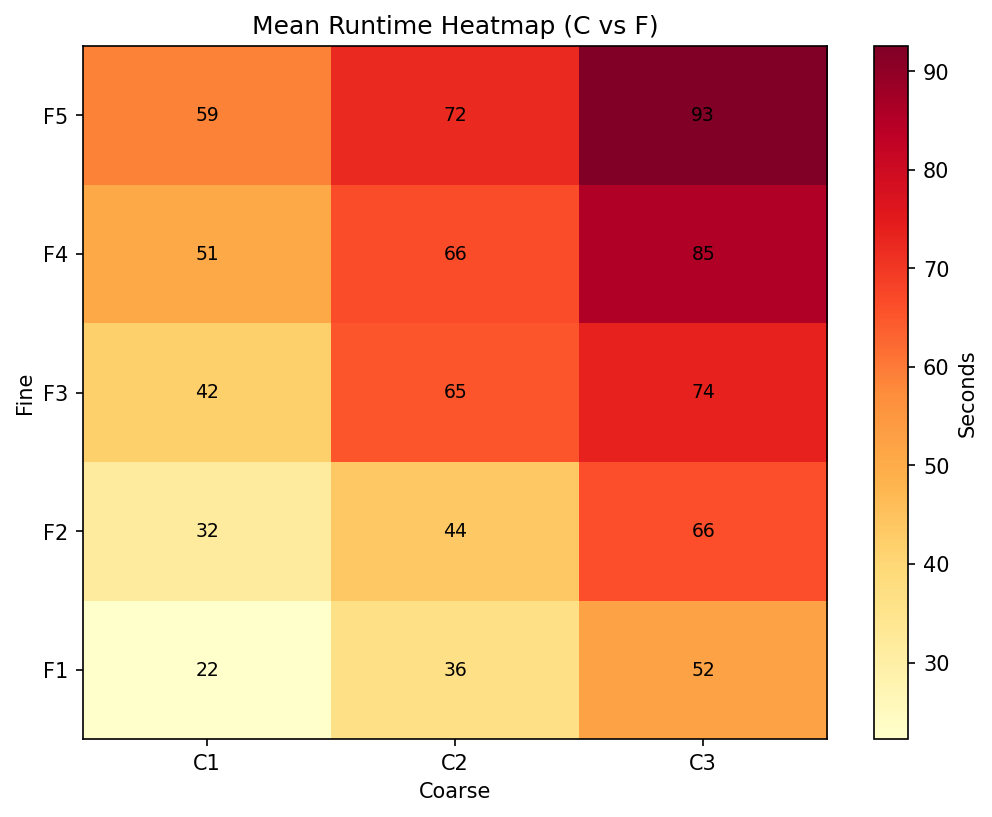
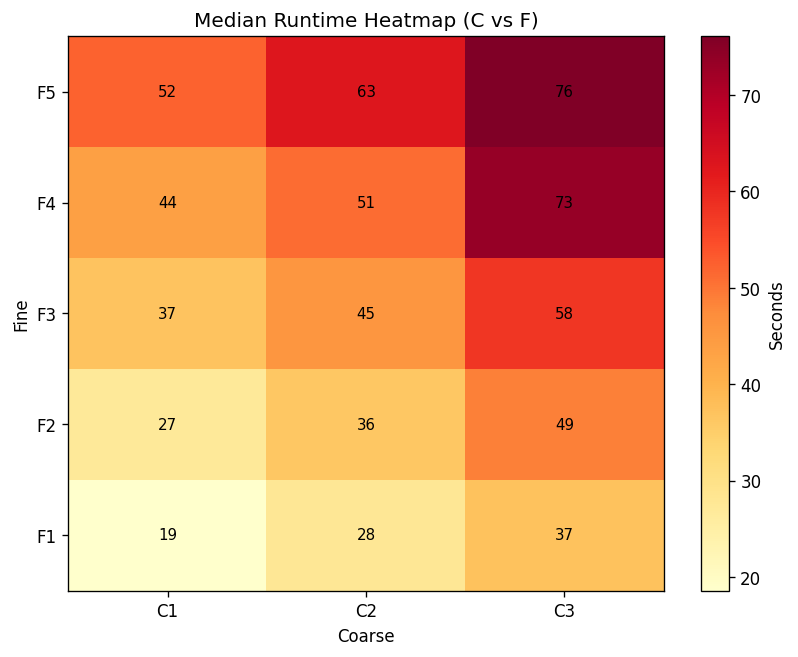
nye grafer

diff --git a/generate_100_graphs.py b/generate_100_graphs.py
@@ -68,6 +68,10 @@ def to_grid(col):
         fine_vals, coarse_vals
     ].values
 
+def to_grid_median(raw_col):
+    medians = raw.groupby(["coarse", "fine"])[raw_col].median().reset_index()
+    return medians.pivot(index="fine", columns="coarse", values=raw_col).loc[fine_vals, coarse_vals].values
+
 def save(fig, name):
     fig.savefig(os.path.join(OUTPUT_DIR, name), dpi=150, bbox_inches="tight")
     plt.close(fig)
@@ -443,32 +447,32 @@ ax.set_ylabel("dBm")
 plt.colorbar(im, label="Count")
 save(fig, "041_hexbin_movement_vs_power.png")
 
-power_mean_grid = to_grid("power_mean")
+power_median_grid = to_grid_median("final_power_dbm")
 fig, ax = plt.subplots(figsize=(8, 6))
-im = ax.imshow(power_mean_grid, cmap="RdYlGn_r", aspect="auto", origin="lower")
+im = ax.imshow(power_median_grid, cmap="RdYlGn_r", aspect="auto", origin="lower")
 ax.set_xticks(range(len(coarse_vals)))
 ax.set_xticklabels([f"C{c}" for c in coarse_vals])
 ax.set_yticks(range(len(fine_vals)))
 ax.set_yticklabels([f"F{f}" for f in fine_vals])
-ax.set_title("Mean Power Heatmap (C vs F)")
+ax.set_title("Median Power Heatmap (C vs F)")
 ax.set_xlabel("Coarse")
 ax.set_ylabel("Fine")
-for (i, j), v in np.ndenumerate(power_mean_grid):
+for (i, j), v in np.ndenumerate(power_median_grid):
     ax.text(j, i, f"{v:.1f}", ha="center", va="center", fontsize=9, color="black")
 plt.colorbar(im, label="dBm")
 save(fig, "042_heatmap_power_mean.png")
 
-elapsed_mean_grid = to_grid("elapsed_mean")
+elapsed_median_grid = to_grid_median("elapsed_seconds")
 fig, ax = plt.subplots(figsize=(8, 6))
-im = ax.imshow(elapsed_mean_grid, cmap="YlOrRd", aspect="auto", origin="lower")
+im = ax.imshow(elapsed_median_grid, cmap="YlOrRd", aspect="auto", origin="lower")
 ax.set_xticks(range(len(coarse_vals)))
 ax.set_xticklabels([f"C{c}" for c in coarse_vals])
 ax.set_yticks(range(len(fine_vals)))
 ax.set_yticklabels([f"F{f}" for f in fine_vals])
-ax.set_title("Mean Runtime Heatmap (C vs F)")
+ax.set_title("Median Runtime Heatmap (C vs F)")
 ax.set_xlabel("Coarse")
 ax.set_ylabel("Fine")
-for (i, j), v in np.ndenumerate(elapsed_mean_grid):
+for (i, j), v in np.ndenumerate(elapsed_median_grid):
     ax.text(j, i, f"{v:.0f}", ha="center", va="center", fontsize=9, color="black")
 plt.colorbar(im, label="Seconds")
 save(fig, "043_heatmap_runtime_mean.png")